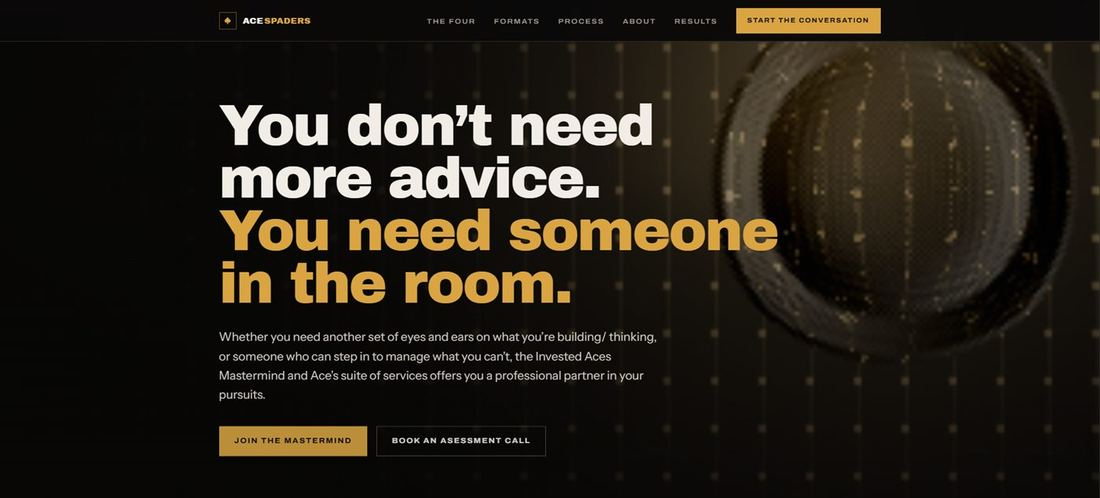
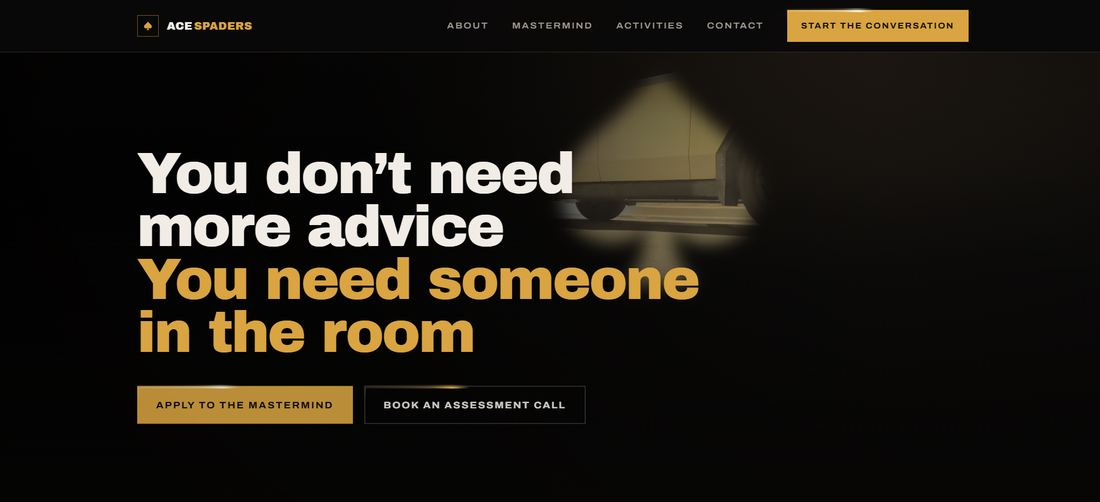
Split AWDEA into its two directions, refresh the Ace Spaders shot
The two art directions were one card: the second lived in an inline
link inside the first's description, which is a good way for nobody to
find it. They are two cards now, each with its own screenshot and its
own address - red at AWDEAA, purple at AWDEAAA. The blue build the old
card pointed at is gone, and its thumbnail with it.

Ace Spaders had a shot of the previous design, from before the nav and
the hero changed. The new one matches what acespaders.com serves today
- checked against the live page rather than assumed.

Every thumbnail is 1100px wide like the ones already there, so the grid
stays even.

diff --git a/webdev/index.html b/webdev/index.html
@@ -125,11 +125,11 @@
         </div>
       </a>
 
-      <div class="card glass card-linked">
-        <div class="thumb"><span style="background-image:url('assets/images/work/awdea.jpg')"></span></div>
+      <a class="card glass" href="https://spacewize.github.io/AWDEAA/" target="_blank" rel="noopener">
+        <div class="thumb"><span style="background-image:url('assets/images/work/awdea-red.jpg')"></span></div>
         <div class="card-body">
           <h3>AWDEA</h3>
-          <p>A BC nonprofit getting disabled adults into concerts, festivals, and games. Rebuilt from their original site, with an events calendar the admins update themselves - no code, no developer. There's also a <a class="inline-link" href="https://spacewize.github.io/AWDEAAA/" target="_blank" rel="noopener">second art direction</a> on the same build.</p>
+          <p>A BC nonprofit getting disabled adults into concerts, festivals, and games. Rebuilt from their original site, with an events calendar the admins update themselves - no code, no developer.</p>
           <div class="tags">
             <span class="tag">Pro Bono</span>
             <span class="tag">Redesign</span>
@@ -137,8 +137,20 @@
             <span class="tag">Nonprofit</span>
           </div>
         </div>
-        <a class="card-stretch" href="https://spacewize.github.io/AWDEA/" target="_blank" rel="noopener" aria-label="AWDEA - view live site"></a>
-      </div>
+      </a>
+
+      <a class="card glass" href="https://spacewize.github.io/AWDEAAA/" target="_blank" rel="noopener">
+        <div class="thumb"><span style="background-image:url('assets/images/work/awdea-purple.jpg')"></span></div>
+        <div class="card-body">
+          <h3>AWDEA, second direction</h3>
+          <p>The same build carrying a different palette. Same structure, same self-serve calendar - shown to the board beside the first so they could pick the one that felt like them.</p>
+          <div class="tags">
+            <span class="tag">Pro Bono</span>
+            <span class="tag">Art direction</span>
+            <span class="tag">Nonprofit</span>
+          </div>
+        </div>
+      </a>
 
       <a class="card glass" href="https://acespaders.com/" target="_blank" rel="noopener">
         <div class="thumb"><span style="background-image:url('assets/images/work/acespaders.jpg')"></span></div>
